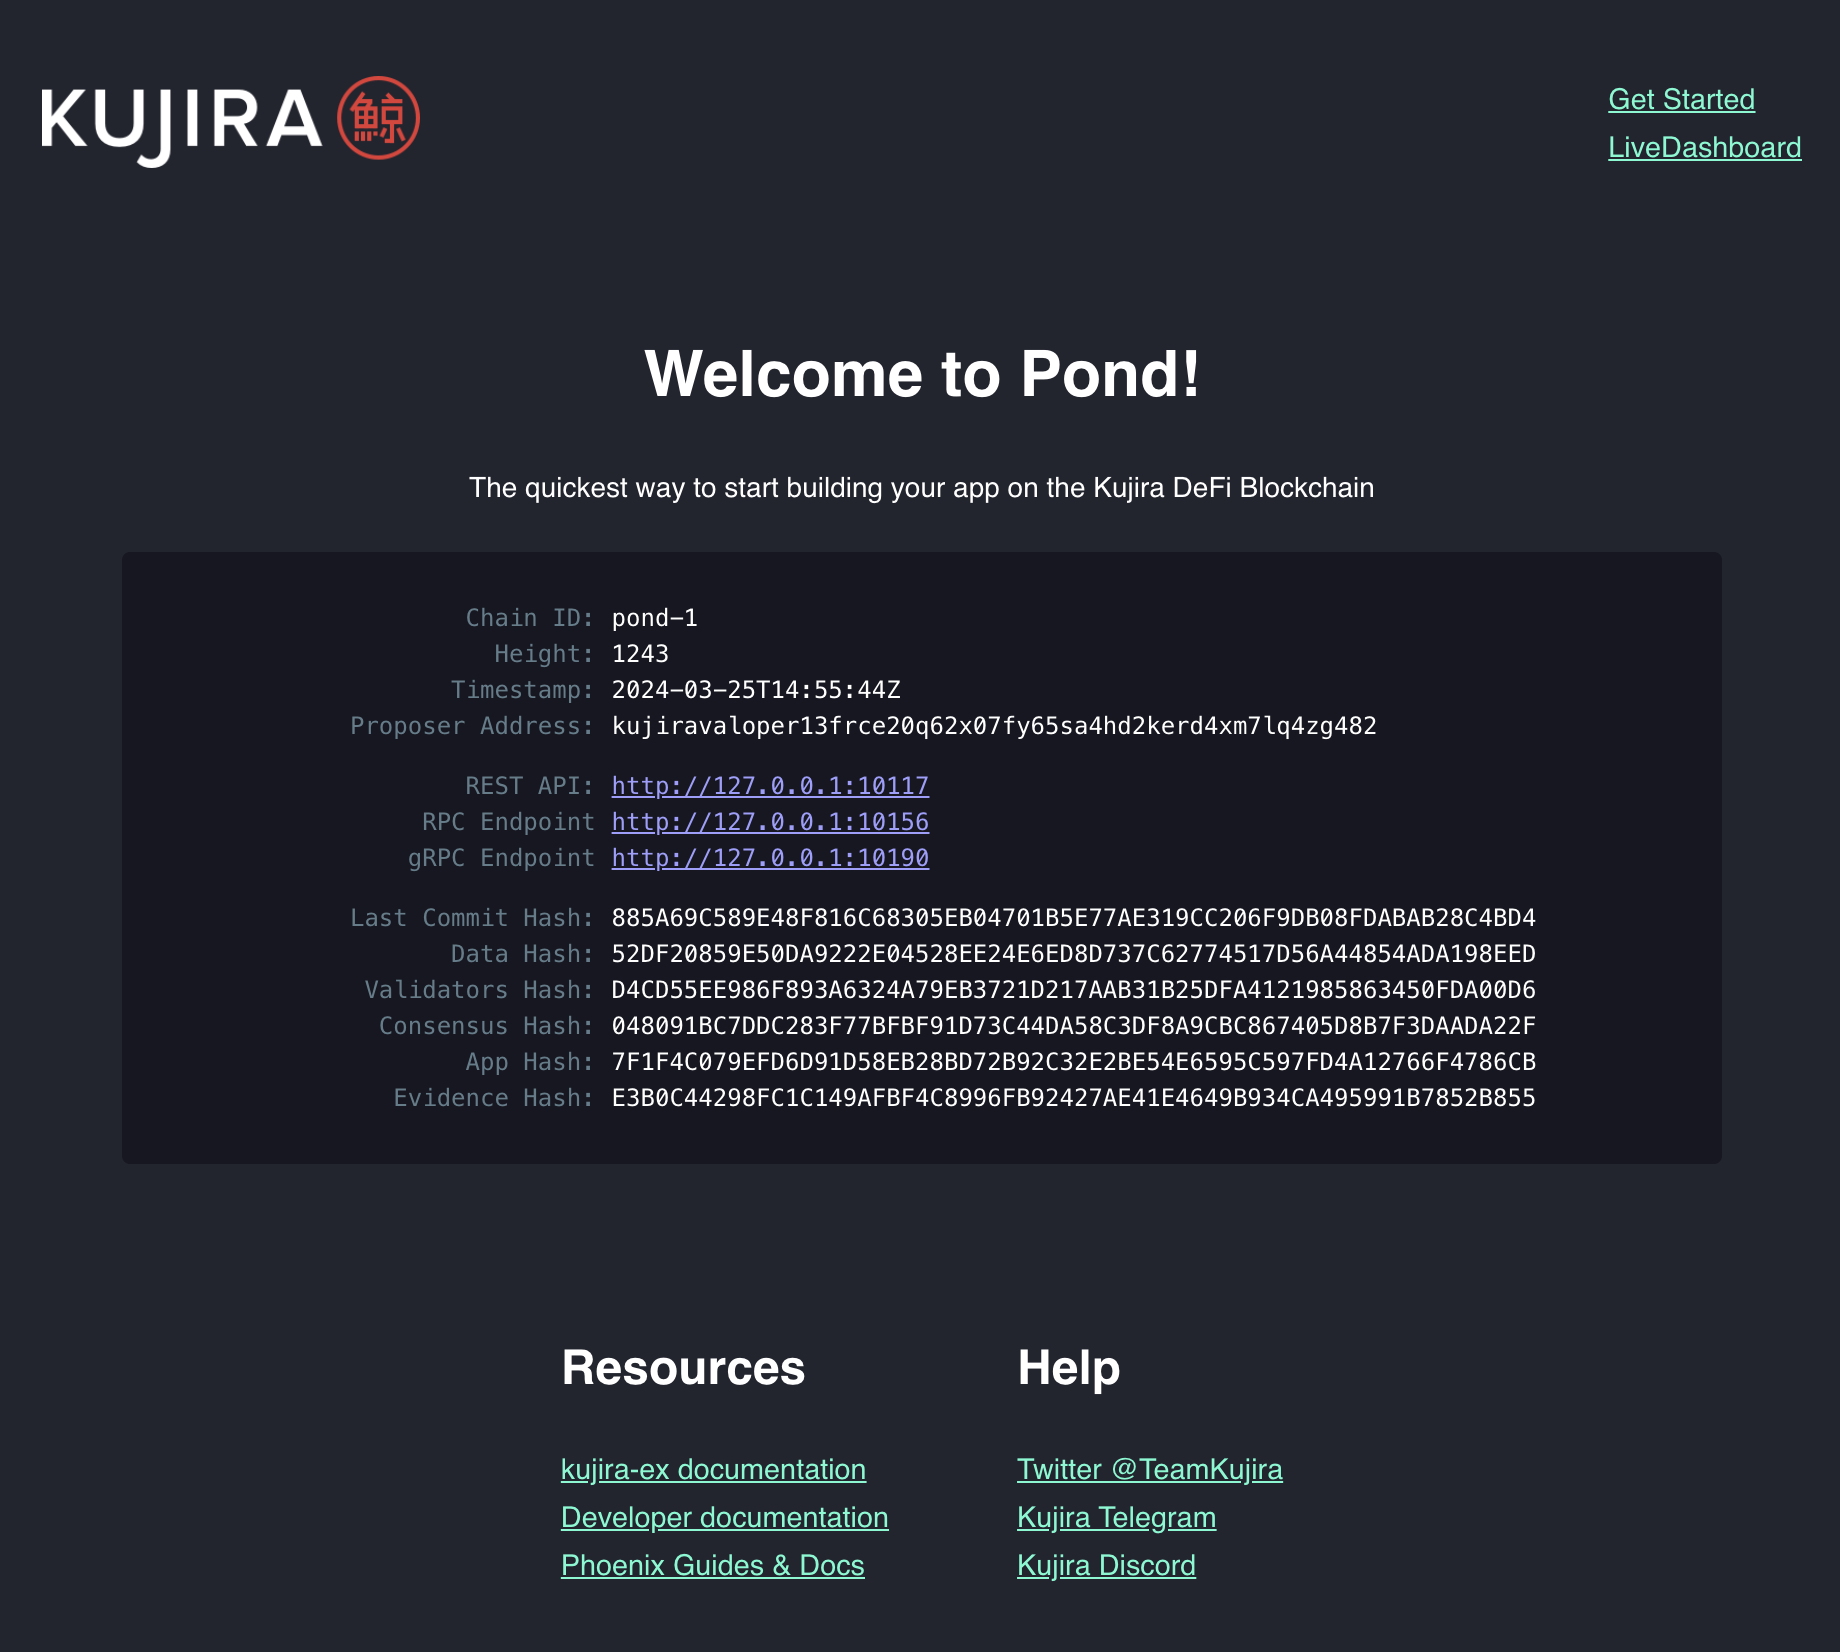
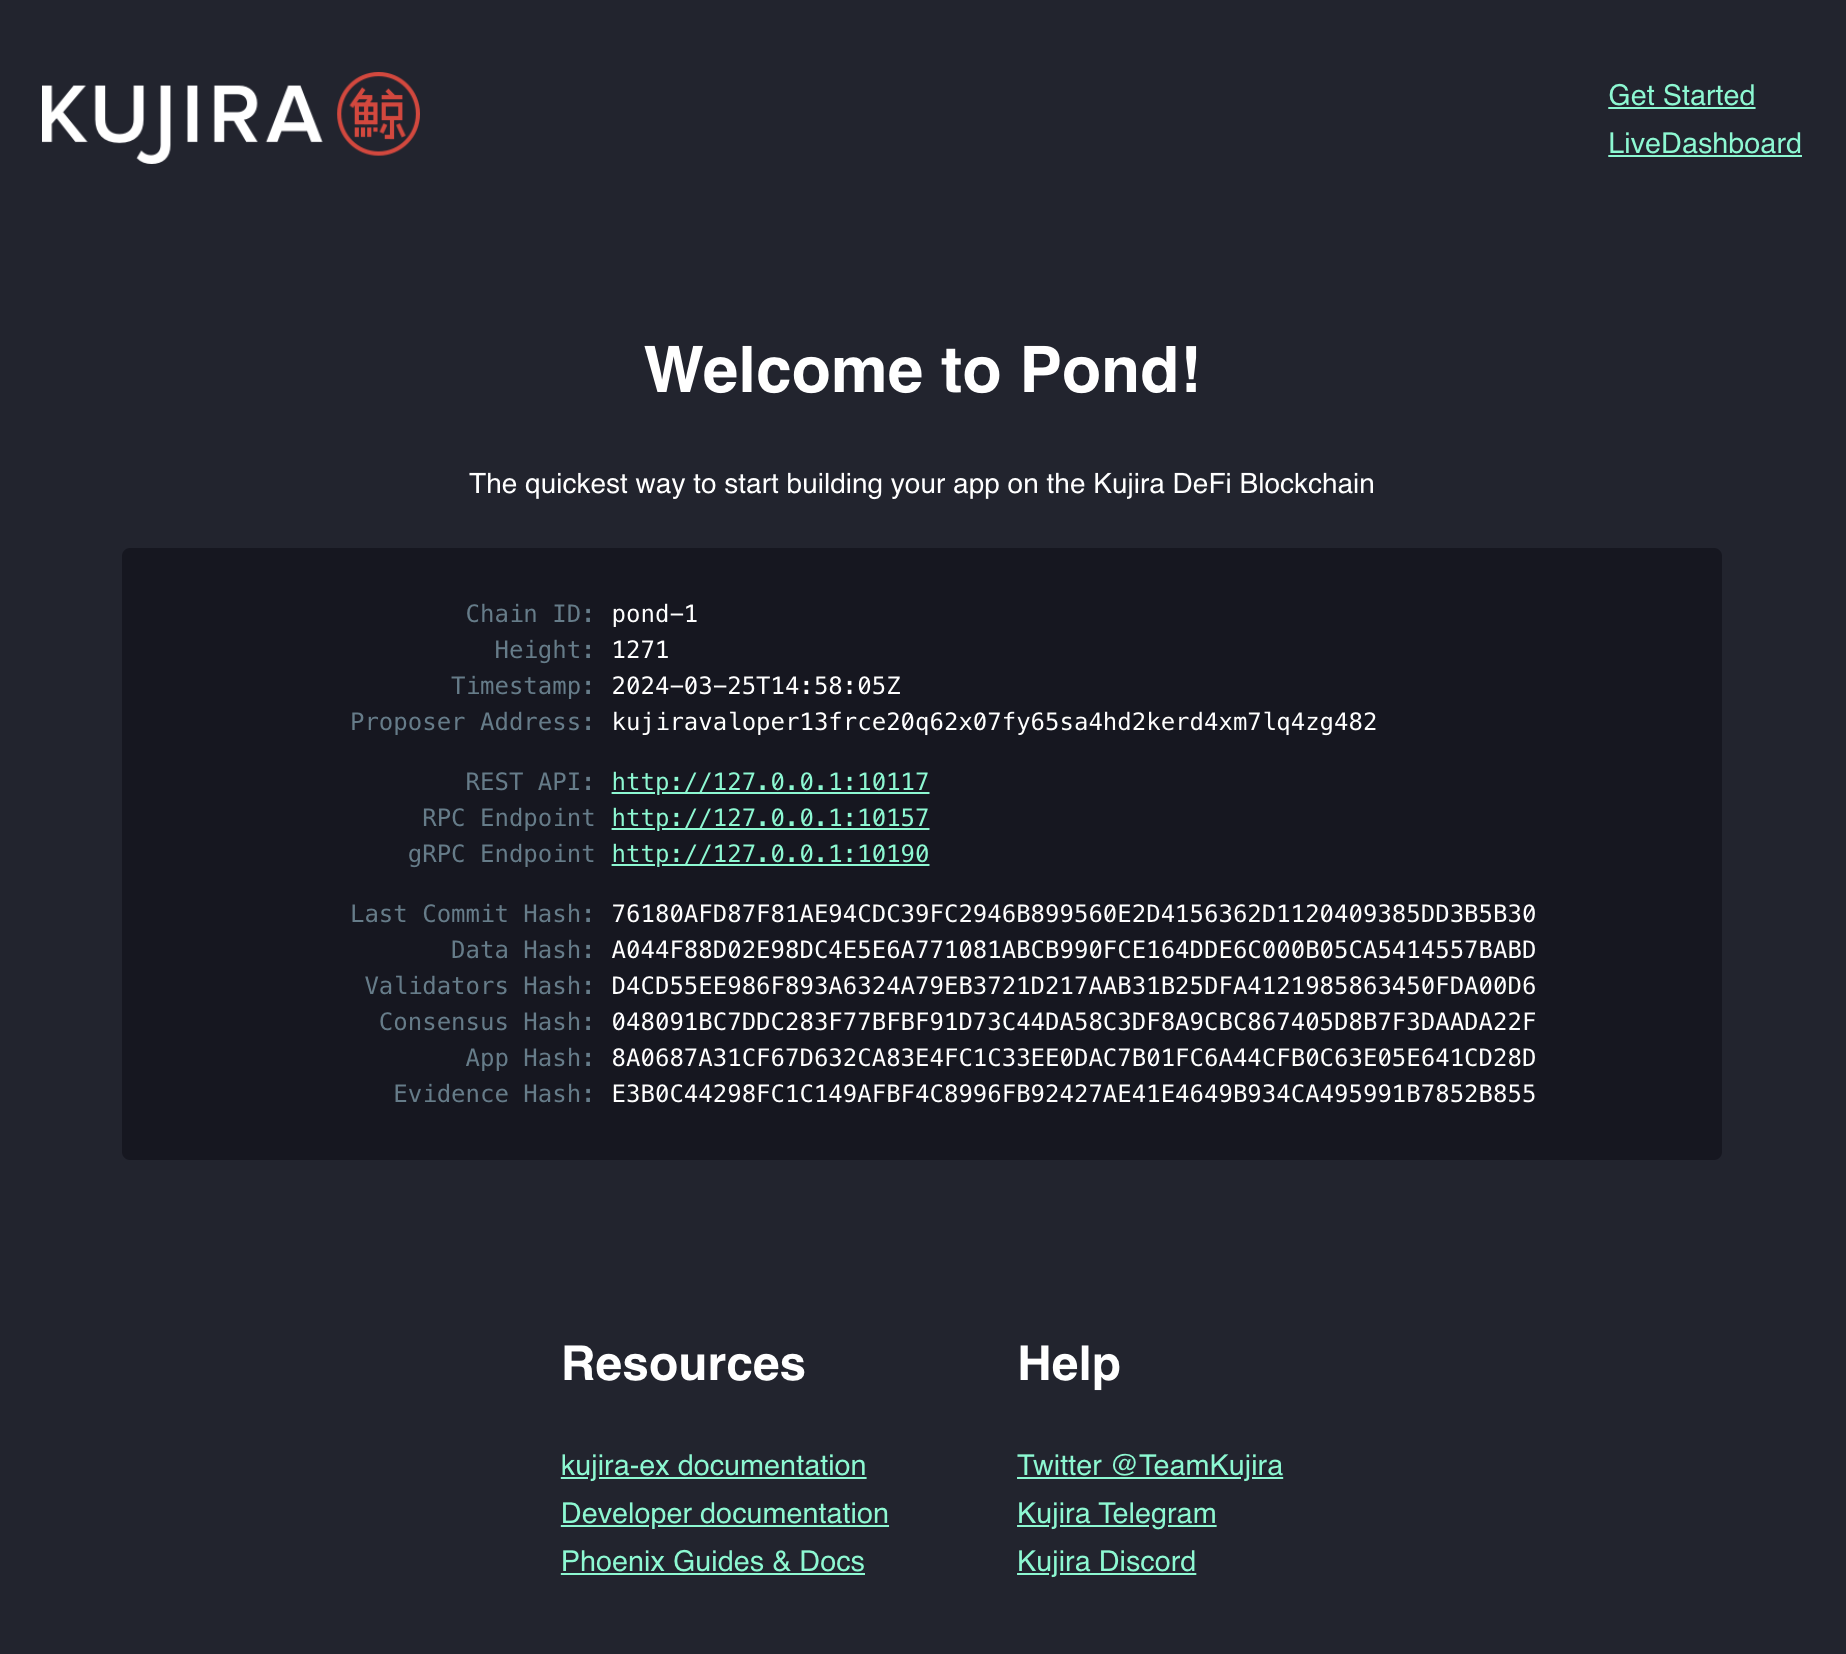
link colour

diff --git a/assets/css/app.css b/assets/css/app.css
@@ -114,6 +114,10 @@ dd {
   word-break: break-all;
 }
 
+dd a {
+  color: var(--teal)
+}
+
 ul.links {
   list-style: none;
   padding: 0;
